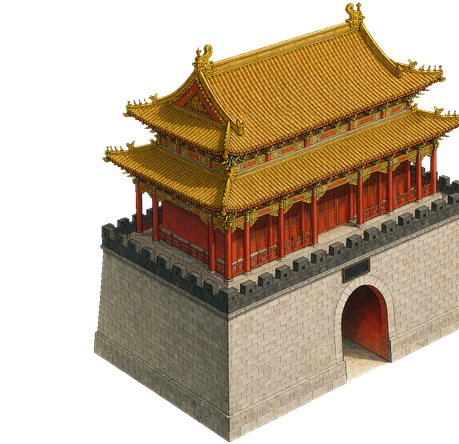
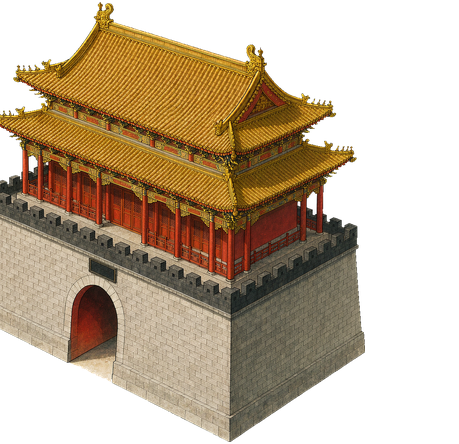
宫门镜像修正：u 向版拱门朝 SW、塔楼归中，南墙段重排无缝衔接
- 根因：palace_gate 原贴图为 v 向墙城门（拱门开在 SE 短端面、塔楼挤在
  基座东端 u 中心 67 vs 轴 63.5、基座 v 向深 7.1 格穿透墙线），摆在
  东西向南墙即呈现「城门偏东、门楼压墙」
- 水平镜像贴图：拱门转朝 SW（南面可见面）、塔楼中心落 u 63.0、基座
  中心 63.6，双双归中；v 向深度收敛为 4.25 格不再穿墙
- 锚点 [230,442]→[229,442]，iso.ts palace_gate ax 0.5→-0.5
- 南墙重排：西 46..57=2×u6，东 69..81=2×u6+u2 收边，墙端面与城台
  剪影重叠 0.1~0.25 格无缝；段数 24→23（u6=10/u2=1/v6=12）
- render_iso.py 补 public 资产 fallback + ISO_DEBUG_FP 足迹线框调试
- 离线目检：拱门朝向正确、左右墙段衔接无缝；回归 75/75、build 通过、
  5288 服务端 MD5 一致

diff --git a/shanhai/src/core/iso.ts b/shanhai/src/core/iso.ts
@@ -213,7 +213,7 @@ export const ISO_ANCHOR_OFFSET: Record<string, { ax: number; ay: number }> = {
   // —— 宫城族（palace.py 烘焙，ax = anchor_px.x - spriteW/2, ay = anchor_px.y - spriteH）——
   palace_hall: { ax: 0, ay: -2 },         // 880×744, anchor [440,742]（故宫太和殿版 10×10）
   palace_hall_s: { ax: 0, ay: -19 },      // 324×453, anchor [162,434]
-  palace_gate: { ax: 0.5, ay: -2 },       // 459×444, anchor [230,442]（AI 工笔重绘 SE）
+  palace_gate: { ax: -0.5, ay: -2 },      // 459×444, anchor [229,442]（原版为 v 向墙城门，2026-11-14 水平镜像改为 u 向：拱门转朝 SW、塔楼归中）
   palace_corner: { ax: 0.5, ay: -2 },     // 327×434, anchor [164,432]（AI 工笔重绘 SE）
   palace_wall_u6: { ax: 64, ay: -5 },     // 256×275, anchor [192,270]
   palace_wall_u2: { ax: 0, ay: -5 },      // 128×211, anchor [64,206]

diff --git a/shanhai/tools/render_iso.py b/shanhai/tools/render_iso.py
@@ -16,6 +16,7 @@ from PIL import Image, ImageDraw
 HERE = os.path.dirname(os.path.abspath(__file__))
 ROOT = os.path.abspath(os.path.join(HERE, '..'))
 MOD = os.path.join(ROOT, 'assets_src', 'modules')
+MOD2 = os.path.join(ROOT, 'public', 'assets', 'art', 'iso')  # 运行时资产（gate_keep/house 等）
 OUT_DIR = os.path.join(ROOT, '_restyle_samples')
 LAYOUT = os.path.join(ROOT, 'public', 'assets', 'art', 'iso', 'taoyuan.json')
 
@@ -33,9 +34,16 @@ _cache = {}
 
 def mod(name):
     if name not in _cache:
-        p = os.path.join(MOD, name)
-        _cache[name] = (Image.open(p + '.png').convert('RGBA'),
-                        json.load(open(p + '.json', encoding='utf-8')))
+        p = None
+        if os.path.exists(os.path.join(MOD, name + '.png')):
+            p = os.path.join(MOD, name)
+        elif os.path.exists(os.path.join(MOD2, name + '.png')):
+            p = os.path.join(MOD2, name)
+        if p is None:
+            raise FileNotFoundError(name)
+        jp = p + '.json'
+        meta = json.load(open(jp, encoding='utf-8')) if os.path.exists(jp) else {}
+        _cache[name] = (Image.open(p + '.png').convert('RGBA'), meta)
     return _cache[name]
 
 
@@ -118,7 +126,7 @@ def render(region=None, out_name='iso_render'):
         cand = [f"{name}_{f}", name] if f else [name]
         found = None
         for c in cand:
-            if os.path.exists(os.path.join(MOD, c + '.png')):
+            if os.path.exists(os.path.join(MOD, c + '.png')) or os.path.exists(os.path.join(MOD2, c + '.png')):
                 found = c
                 break
         if not found:
@@ -131,6 +139,15 @@ def render(region=None, out_name='iso_render'):
         print('缺图跳过:', sorted(set(skipped)))
 
     im = b.im
+    # 调试：叠加红色足迹线框，验证贴图与足迹的对齐
+    if os.environ.get('ISO_DEBUG_FP'):
+        d = ImageDraw.Draw(im)
+        for it in sorted(props, key=sort_key):
+            w = it.get('w') or 1
+            h = it.get('h') or 1
+            pts = [b.P(it['gx'] + w, it['gy'] + h), b.P(it['gx'], it['gy'] + h),
+                   b.P(it['gx'], it['gy']), b.P(it['gx'] + w, it['gy'])]
+            d.polygon(pts, outline=(255, 0, 0, 255))
     if region:
         # 裁回内容区
         im = im.crop(im.getbbox())
